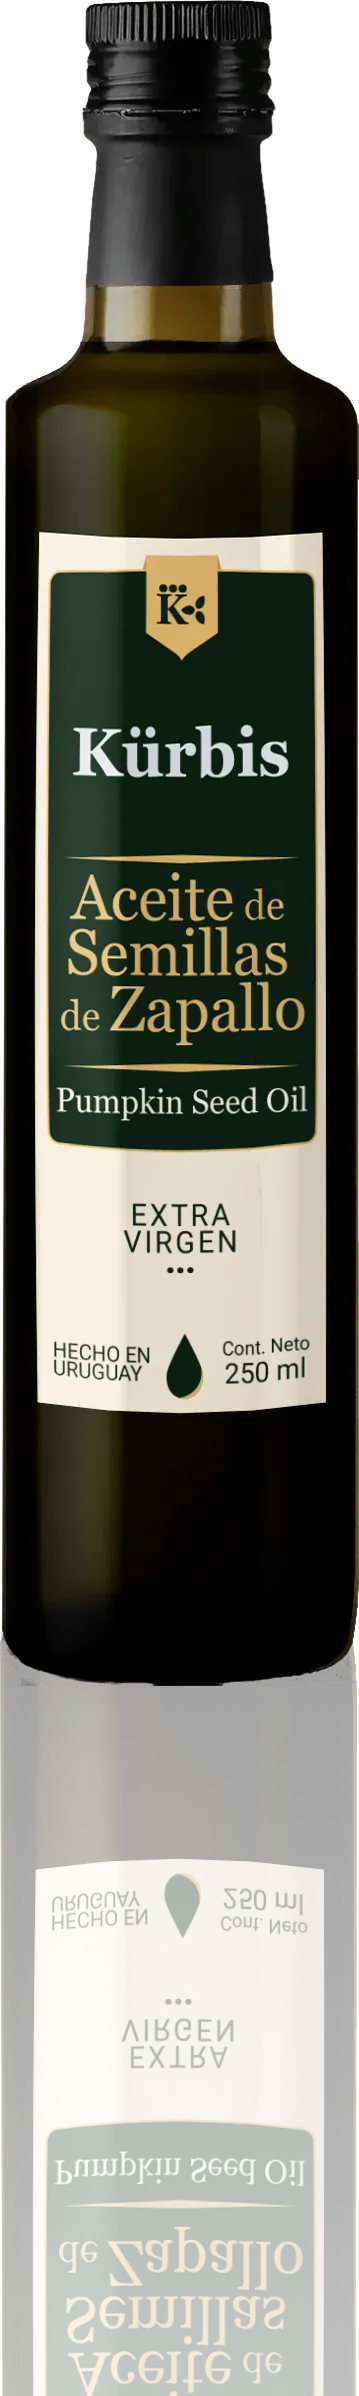
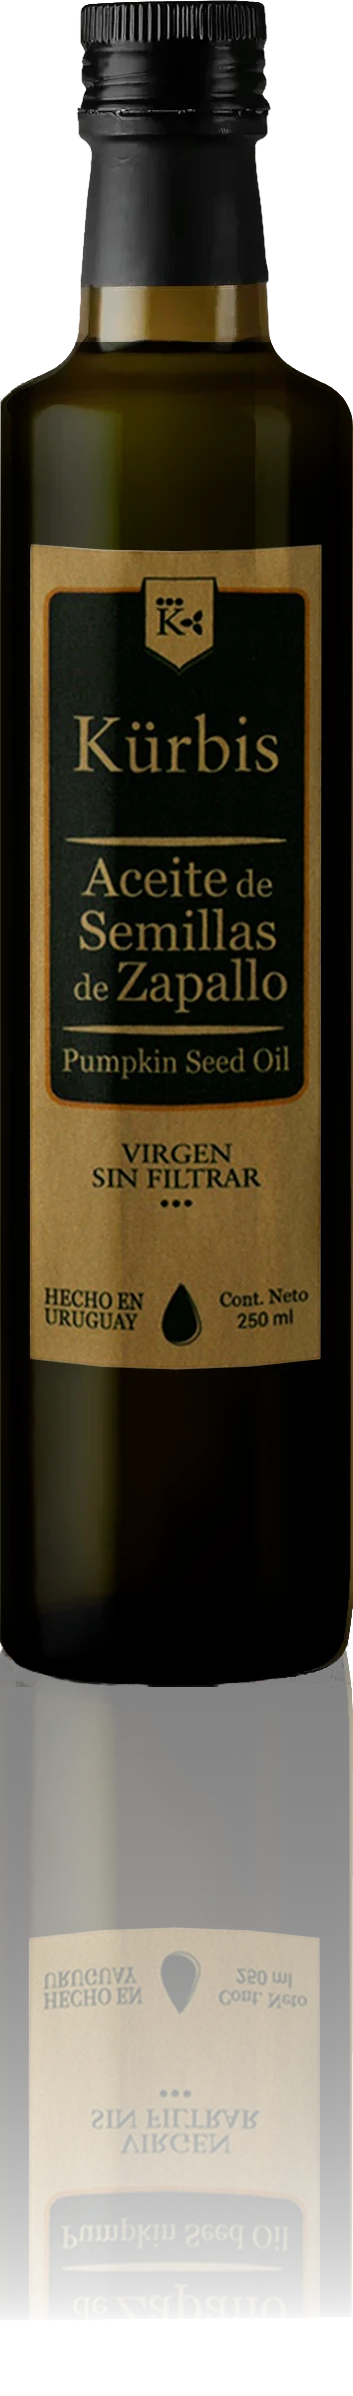
feat: :sparkles: Se actualizaron todas las imagenes y unos detalles visuales

diff --git a/src/components/IndexComponents/CarouselHero.tsx b/src/components/IndexComponents/CarouselHero.tsx
@@ -6,25 +6,25 @@ import CarouselLayover from "./CarouselLayover.js";
 
 const slides = [
   {
-    imagen: "/carousel/ubicacion.png",
+    imagen: "/carousel/ubicacion.webp",
     titulo: "el 'oro' verde de austria",
     alt:"",
     subtitulo: "- Ahora en Uruguay -",
   },
   {
-    imagen: "/carousel/zapallo.jpg",
+    imagen: "/carousel/zapallo.webp",
     titulo: "El Rey del bienestar y la salud",
     alt: "Zapallo",
     subtitulo: "",
   },
   {
-    imagen: "/carousel/semillas.png",
+    imagen: "/carousel/semillas.webp",
     titulo: "Un patrimonio biológico & cultural",
     alt:"Semillas Kurbis",
     subtitulo: "- Desde Austria a Uruguay -",
   },
   {
-    imagen: "/carousel/regalo.png",
+    imagen: "/carousel/regalo.webp",
     titulo: "El regalo ideal",
     alt: "Botella de aceite Kurbis como regalo",
     subtitulo: "- Para los amantes de lo saludable & gourmet -",

diff --git a/src/components/IndexComponents/CarouselLayover.tsx b/src/components/IndexComponents/CarouselLayover.tsx
@@ -4,7 +4,7 @@ export default function carouselLayover({titulo, subtitulo}:{titulo:string, subt
             <div
                 className="bg-[var(--color-secundario)]/50 p-4 sm:p-6 md:p-8
                 max-w-full
-                w-[90%] sm:w-[80%] md:w-[70%] lg:w-[60%]
+                w-[90%] sm:w-[80%] md:w-[70%] lg:w-[60%] xl:w-[50%]
                 h-25 md:h-35 lg:h-45 xl:h-60
                 content-center text-center"
             >
